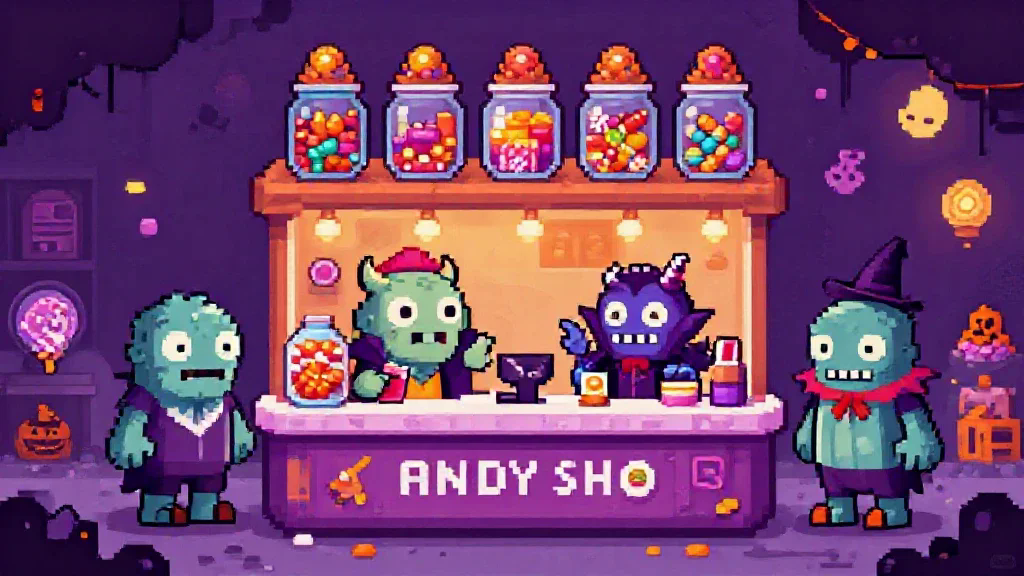
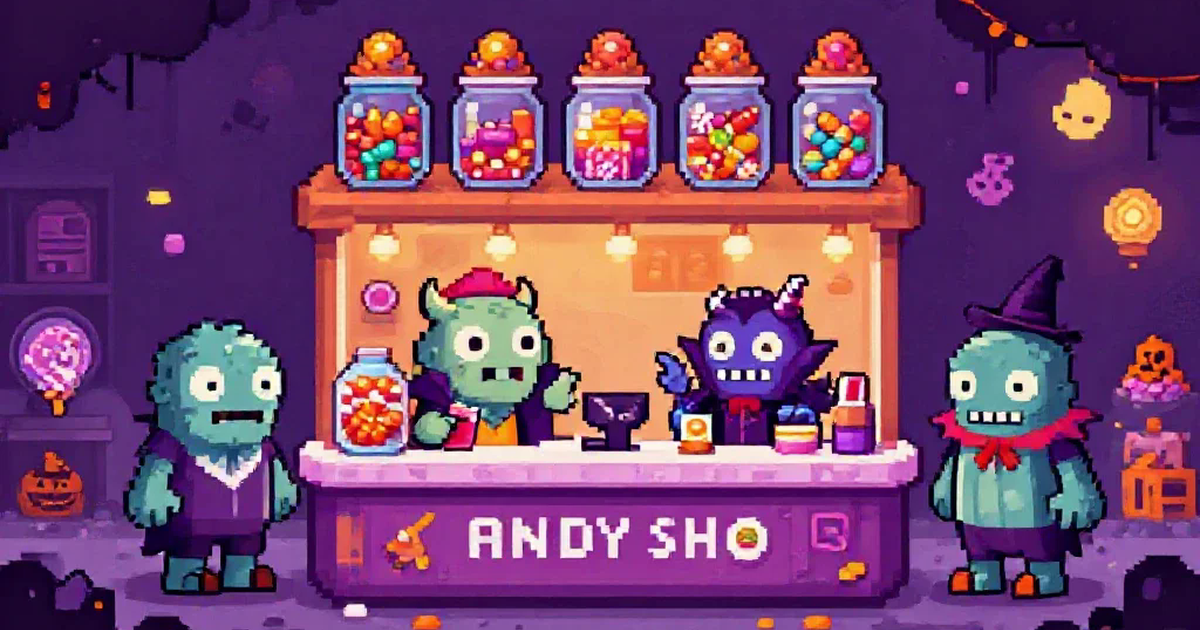
Open Graph : image 1200 x 630 et metadonnees completes

diff --git a/index.html b/index.html
@@ -9,13 +9,17 @@
     <meta property="og:type" content="website" />
     <meta property="og:title" content="Bonbons Monstres : Chaud Devant : La confiserie qui fait saliver les zombies" />
     <meta property="og:description" content="Bonbons Monstres : jeu de gestion et tycoon d'Halloween. Prépare les commandes de friandises pour des créatures voraces, gère tes chaudrons et agrandis la boutique." />
-    <meta property="og:image" content="https://games.hylst.fr/bonbonsmonstres/og-image.png" />
+    <meta property="og:image" content="https://games.hylst.fr/bonbonsmonstres/og-image.png?v=2" />
+    <meta property="og:image:type" content="image/png" />
+    <meta property="og:image:width" content="1200" />
+    <meta property="og:image:height" content="630" />
+    <meta property="og:image:alt" content="Bonbons Monstres" />
     <meta property="og:url" content="https://games.hylst.fr/bonbonsmonstres/" />
     <meta property="og:site_name" content="Hylst.Games" />
     <meta name="twitter:card" content="summary_large_image" />
     <meta name="twitter:title" content="Bonbons Monstres : Chaud Devant : La confiserie qui fait saliver les zombies" />
     <meta name="twitter:description" content="Bonbons Monstres : jeu de gestion et tycoon d'Halloween. Prépare les commandes de friandises pour des créatures voraces, gère tes chaudrons et agrandis la boutique." />
-    <meta name="twitter:image" content="https://games.hylst.fr/bonbonsmonstres/og-image.png" />
+    <meta name="twitter:image" content="https://games.hylst.fr/bonbonsmonstres/og-image.png?v=2" />
     <meta name="robots" content="index, follow" />
     <link rel="canonical" href="https://games.hylst.fr/bonbonsmonstres/" />
     <link rel="icon" type="image/png" href="favicon.png" />
